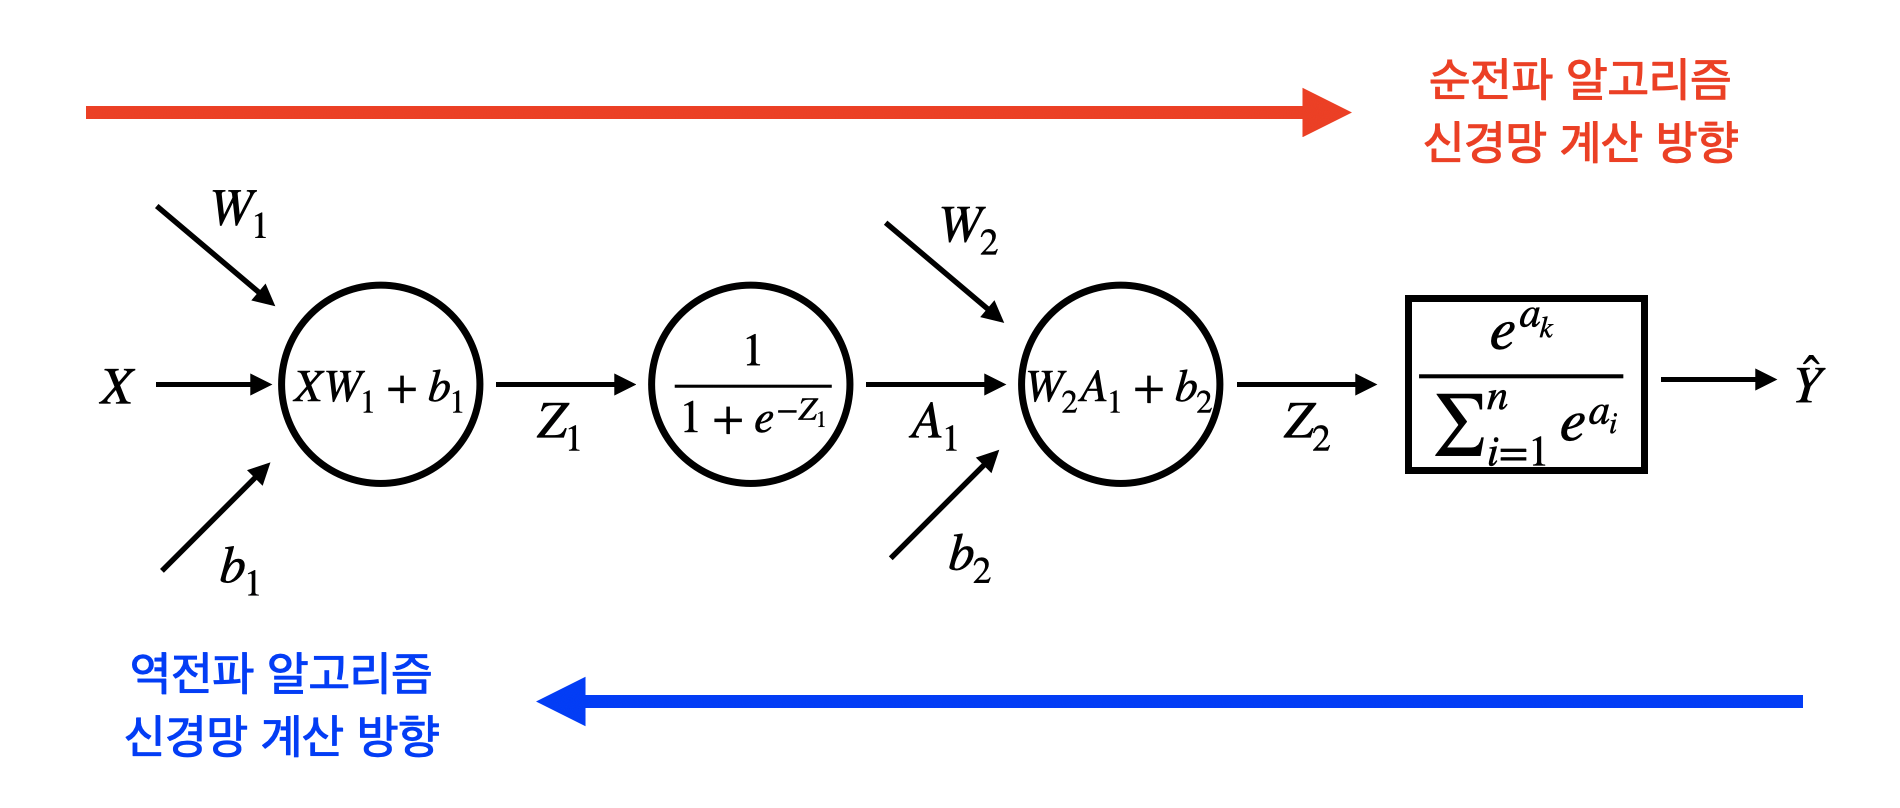
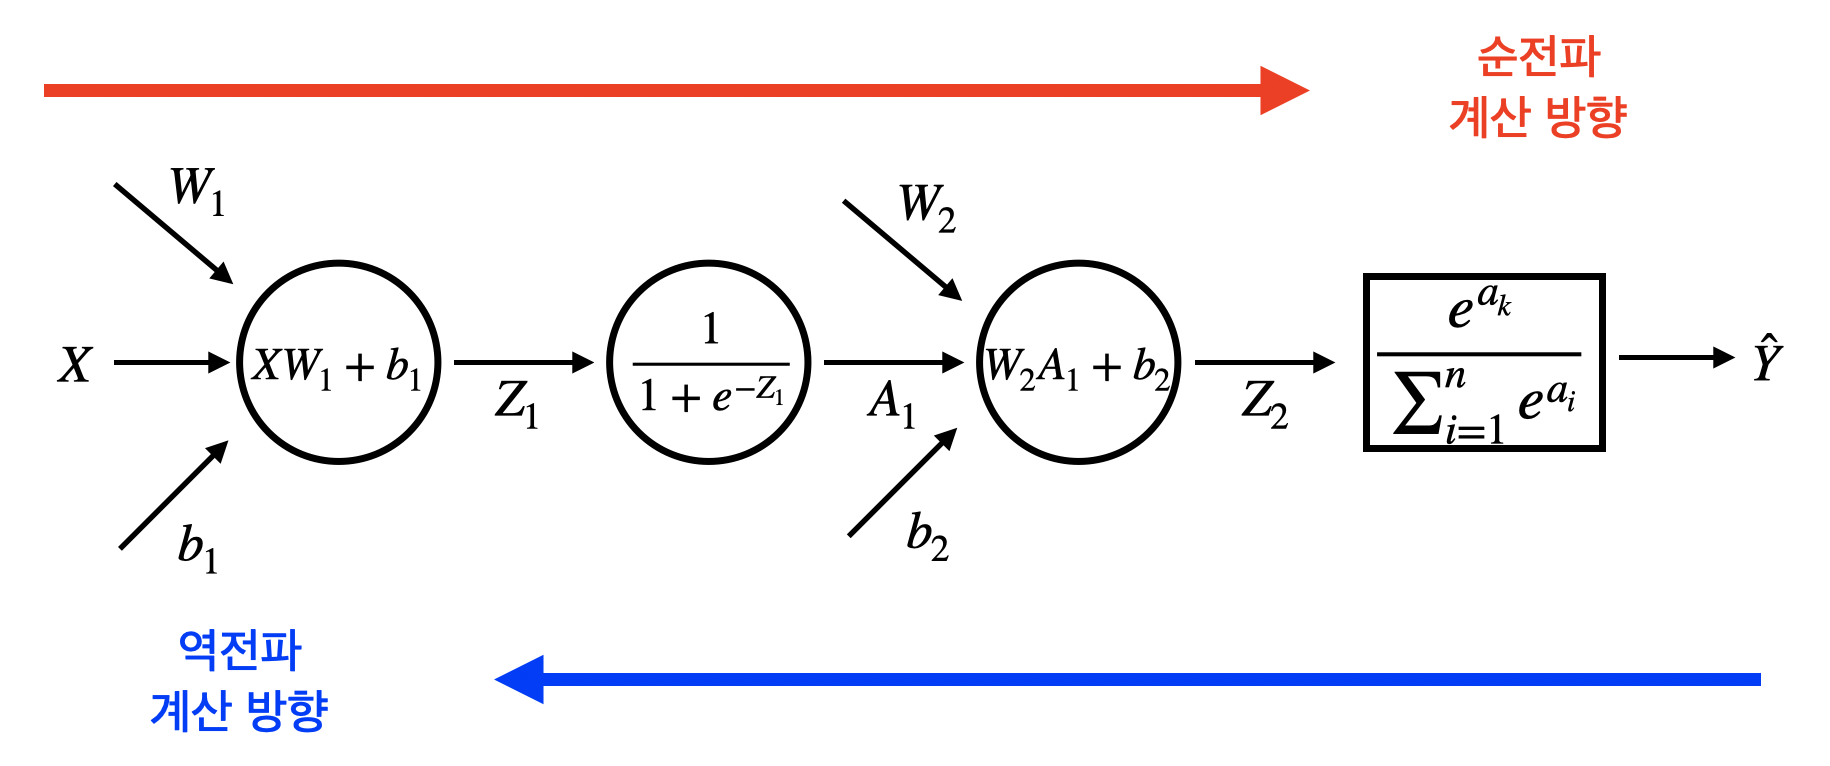
Site updated: 2020-04-29 04:42:37

diff --git a/2020/04/04/Deeplearning-8/index.html b/2020/04/04/Deeplearning-8/index.html
@@ -57,7 +57,7 @@
 <meta property="og:image" content="https://hyeonji-ryu.github.io/images/44.png">
 <meta property="og:image" content="https://hyeonji-ryu.github.io/images/51.png">
 <meta property="article:published_time" content="2020-04-04T13:56:01.000Z">
-<meta property="article:modified_time" content="2020-04-28T19:10:40.669Z">
+<meta property="article:modified_time" content="2020-04-28T19:41:48.097Z">
 <meta property="article:author" content="Hyeonji Ryu">
 <meta property="article:tag" content="딥러닝">
 <meta property="article:tag" content="머신러닝">
@@ -247,7 +247,7 @@
                   <i class="fa fa-calendar-check-o"></i>
                 </span>
                 <span class="post-meta-item-text">Edited on</span>
-                <time title="Updated at: 2020-04-29 04:10:40" itemprop="dateModified" datetime="2020-04-29T04:10:40+09:00">2020-04-29</time>
+                <time title="Updated at: 2020-04-29 04:41:48" itemprop="dateModified" datetime="2020-04-29T04:41:48+09:00">2020-04-29</time>
               </span>
             <span class="post-meta-item">
               <span class="post-meta-item-icon">
@@ -274,11 +274,11 @@
       
         <p>해당 시리즈는 프로그래밍 언어 중 하나인 줄리아(Julia)로 딥러닝(Deep learning)을 구현하면서 원리를 설명합니다.<br><a id="more"></a></p>
 <hr>
-<p>이전 글에서는 왼쪽 방향에서 오른쪽 방향으로 이동하는 학습 모델인 순전파를 살펴보았다. 순전파 알고리즘은 학습을 진행할 때마다 각각 매개변수의 미분값을 구해야 하기 때문에 신경망 계산이 매개변수 개수의 두 배가 진행된다. 이전 글에서의 신경망 모델을 예시로 보면 가중치와 편향이 총 4개이기 때문에 순전파 알고리즘으로 학습을 한 번 할 때마다 신경망 계산은 총 8번 이루어진다. 이 방식은 매우 비효율적이고 시간이 오래걸린다. 순전파보다 더 효율적으로 학습하는 알고리즘이 바로 역전파이다. 이번 장에서는 역전파에 대해서 살펴볼 것이다.</p>
-<h2 id="역전파란"><a href="#역전파란" class="headerlink" title="역전파란"></a>역전파란</h2><p>역전파(backward propagation)는 순전파와 다르게 신경망 계산을 반대로 하는 것을 의미한다. 즉, 순전파는 왼쪽에서 오른쪽 방향으로 신경망 계산이 이루어진다면, 역전파는 오른쪽에서 왼쪽 방향으로 신경망 계산이 이루어진다. 도식에서 확인하자면 아래와 같다.</p>
+<p>이전 글에서는 왼쪽 방향에서 오른쪽 방향으로 이동하는 미분법인 순전파 알고리즘을 살펴보았다. 순전파 알고리즘은 학습을 진행할 때마다 각각 매개변수의 미분값을 구해야 하기 때문에 신경망 계산이 매개변수 개수의 두 배가 진행된다. 이전 글에서의 신경망 모델을 예시로 보면 가중치와 편향이 총 4개이기 때문에 순전파 기반으로 학습을 한 번 할 때마다 신경망 계산은 총 8번 이루어진다. 이 방식은 매우 비효율적이고 시간이 오래걸린다. 순전파보다 더 효율적으로 미분하는 방법이 바로 역전파 알고리즘이다. 이번 장에서는 역전파 알고리즘에 대해서 살펴볼 것이다.</p>
+<h2 id="역전파란"><a href="#역전파란" class="headerlink" title="역전파란"></a>역전파란</h2><p>역전파(backward propagation)는 순전파와 다르게 미분을 반대로 하는 것을 의미한다. 즉, 순전파는 왼쪽에서 오른쪽 방향으로 미분이 이루어진다면, 역전파는 오른쪽에서 왼쪽 방향으로 미분이 이루어진다. 도식에서 확인하자면 아래와 같다.</p>
 <p><img src="\../images/43.png" alt="신경망 계산 방향"></p>
 <p>또한 순전파와 역전파는 신경망 계산이 이루어지는 과정도 약간 다르다. 우리가 만든 2층 신경망 모델의 순전파 알고리즘은 각각 가중치와 편향의 편미분 값을 구하기 위해서 신경망 계산이 8번 이루어지지만, 역전파 알고리즘은 한번 진행될 때 가중치와 편향의 편미분 값을 바로 구할 수 있다. 이것이 역전파가 순전파보다 훨씬 빠르게 진행되는 이유이다. 신경망 계산은 행렬 계산으로 이루어지기 때문에 매우 복잡하고 계산량이 많다. 따라서 계산을 여러 번 할수록 훨씬 많은 시간이 소요된다. 따라서 시간의 관점에서 역전파는 순전파보다 훨씬 더 효율적인 알고리즘이라고 볼 수 있다. 순전파와 역전파의 차이를 정리하면 다음과 같다.</p>
-<p><img src="\../images/44.png" alt="학습 알고리즘 비교"></p>
+<p><img src="\../images/44.png" alt="미분 알고리즘 비교"></p>
 <h2 id="역전파의-원리-합성함수의-미분"><a href="#역전파의-원리-합성함수의-미분" class="headerlink" title="역전파의 원리: 합성함수의 미분"></a>역전파의 원리: 합성함수의 미분</h2><p>역전파가 한번에 편미분을 구할 수 있는 원리는 합성함수의 미분을 이용한 것이다. 먼저 우리가 만들었던 2층 신경망 모델의 수식을 확인해보자.</p>
 <script type="math/tex; mode=display">\hat{y}=\sigma(h(XW1+B1)\times W2+B2)</script><p>위의 수식을 다음과 같이 정리할 수 있다.</p>
 <script type="math/tex; mode=display">Z1=XW1+B1\\
@@ -354,7 +354,7 @@ x & \text{(x>0) $$}\\
 0 & \text{(x≤0)$$}\\
 1 & \text{(x>0) $$}\\
 \end{cases}</script><p>따라서 역전파 알고리즘에서 Relu 함수는 입력값 $x$가 0보다 같거나 작으면 미분값에 0을 곱해서 출력하고, $x$보다 크면 1을 곱해서 출력한다. 그렇기 때문에 입력값에서 음수의 위치를 저장해두어야 한다.</p>
-<h2 id="순전파-vs-역전파"><a href="#순전파-vs-역전파" class="headerlink" title="순전파 vs. 역전파"></a>순전파 vs. 역전파</h2><p>다음 글에서 살펴볼 역전파 알고리즘이 과연 잘 구현된건지 확인해보자. 먼저 훈련데이터 이미지 3개를 <code>x_batch</code>와  <code>t_batch</code>에 할당한다. (참고로 사용된 훈련데이터는 MNIST 데이터이며, <a href="https://hyeonji-ryu.github.io/2020/04/04/Deeplearning-7/">이전 글</a>에서 가져오는 방법을 볼 수 있다.)</p>
+<h2 id="순전파-vs-역전파"><a href="#순전파-vs-역전파" class="headerlink" title="순전파 vs. 역전파"></a>순전파 vs. 역전파</h2><p>다음 글에서 살펴볼 역전파 알고리즘이 과연 잘 구현되었는지 확인해보자. 먼저 훈련데이터 이미지 3개를 <code>x_batch</code>와  <code>t_batch</code>에 할당한다. (참고로 사용된 훈련데이터는 MNIST 데이터이며, <a href="https://hyeonji-ryu.github.io/2020/04/04/Deeplearning-7/">이전 글</a>에서 가져오는 방법을 볼 수 있다.)</p>
 <figure class="highlight julia"><table><tr><td class="gutter"><pre><span class="line">1</span><br><span class="line">2</span><br></pre></td><td class="code"><pre><span class="line">x_batch = train_x[<span class="number">1</span>:<span class="number">3</span>, :]</span><br><span class="line">t_batch = t[<span class="number">1</span>:<span class="number">3</span>, :]</span><br></pre></td></tr></table></figure>
 <p>그 다음 순전파 알고리즘을 먼저 작동해보자.</p>
 <figure class="highlight julia"><table><tr><td class="gutter"><pre><span class="line">1</span><br></pre></td><td class="code"><pre><span class="line">grad_forward = TwoLayerNet_numerical_gradient(loss, x_batch, t_batch)</span><br></pre></td></tr></table></figure>

diff --git a/2020/04/02/Deeplearning-6/index.html b/2020/04/02/Deeplearning-6/index.html
@@ -55,7 +55,7 @@
 <meta property="og:locale" content="ko_KR">
 <meta property="og:image" content="https://hyeonji-ryu.github.io/images/31.png">
 <meta property="article:published_time" content="2020-04-02T00:53:05.000Z">
-<meta property="article:modified_time" content="2020-04-28T19:10:40.669Z">
+<meta property="article:modified_time" content="2020-04-28T19:37:49.414Z">
 <meta property="article:author" content="Hyeonji Ryu">
 <meta property="article:tag" content="딥러닝">
 <meta property="article:tag" content="머신러닝">
@@ -249,7 +249,7 @@
                   <i class="fa fa-calendar-check-o"></i>
                 </span>
                 <span class="post-meta-item-text">Edited on</span>
-                <time title="Updated at: 2020-04-29 04:10:40" itemprop="dateModified" datetime="2020-04-29T04:10:40+09:00">2020-04-29</time>
+                <time title="Updated at: 2020-04-29 04:37:49" itemprop="dateModified" datetime="2020-04-29T04:37:49+09:00">2020-04-29</time>
               </span>
             <span class="post-meta-item">
               <span class="post-meta-item-icon">
@@ -291,7 +291,7 @@
 </ul>
 <h2 id="인공신경망-학습-과정"><a href="#인공신경망-학습-과정" class="headerlink" title="인공신경망 학습 과정"></a>인공신경망 학습 과정</h2><p>인공신경망은 네트워크 그래프의 형식을 취한다. 네트워크 그래프란 요소인 노드(node)와 노드들의 관계를 나타내는 엣지(edge)로 구성하여 만든 그래프이다. 여기서 노드는 변화하는 주체를 의미하며, 엣지는 그 변화의 정도를 나타낸다. 인공신경망을 네트워크 그래프 관점에서 설명한다면 입력데이터와 은닉층의 중간값, 출력값은 모두 노드이며 데이터에 변화를 야기하는 가중치와 편향은 엣지이다. 네트워크 그래프로 도식화한 신경망은 아래와 같다.</p>
 <p><img src="/images/31.png" alt="신경망 구조"></p>
-<p>결국 우리가 학습을 통해 찾아야 하는 것은 엣지(edge)인 가중치와 편향의 값인 것을 확인할 수 있다. 현재 우리가 살펴본 학습 알고리즘은 경사하강법밖에 없기에 학습 과정에 대한 설명은 경사하강법을 기반으로 한다.</p>
+<p>결국 우리가 학습을 통해 찾아야 하는 것은 엣지(edge)인 가중치와 편향의 값인 것을 확인할 수 있다. 지금부터 진행되는 학습 과정에 대한 설명은 경사하강법을 기반으로 한다.</p>
 <p>학습 과정을 세분화하여 설명하기 위해 위의 인공신경망 도식을 바탕으로 설명하고자 한다. 먼저 위의 인공신경망은 2층 구조이며, 입력값은 $[x_1, x_2, x_3, x_4]$로 총 4개이다. 또한 은닉층 $[h_1, h_2]$을 거쳐 예측값 $[y_1, y_2, y_3]$을 출력한다.</p>
 <p>(1) 인공신경망 매개 변수 셋팅</p>
 <p>위의 도식만 설정되면 가중치와 편향의 크기는 자동으로 결정된다. 먼저 입력층에서 은닉층으로 가는 1층 구간의 W1은 $1 \times 4$행렬인 입력값과 곱해서 $1 \times 2$행렬이 결과로 나와야 하기에 $4 \times 2$의 행렬이며, 편향은 $1 \times 2$ 행렬이다. 은닉층과 출력층 사이의 2층 구간 W2 또한 이와 같은 원리로 자동 설정된다.</p>
@@ -300,7 +300,7 @@
 <p>(3) 손실 함수 값 계산</p>
 <p>위의 신겸망 계산을 가중치와 편향을 갱신하면서 반복하여 손실 함수 값을 줄인다. 손실 함수는 예측값 $\hat{y}$와 정답 $t$의 오차를 계산한다. 보통 평균 제곱 오차와 교차 엔트로피 오차를 이용한다.</p>
 <p>(4) 매개 변수의 편미분 구하기</p>
-<p>그렇다면 손실 함수의 값을 어떻게 줄이는가? 이때 사용되는 것이 편미분이다. 편미분은 분자의 $f(x)$를 분모의 변수를 기준으로 미분한 것이며, 함수 $f(x)$에서 변수가 순간적으로 얼마나 변하는가를 나타낸다. 즉, 기울기를 나타내는 것이다. 편미분 값을 통해서 가중치와 편향이 어느 방향으로 변해야 하는지를 파악할 수 있다.</p>
+<p>그렇다면 손실 함수의 값을 어떻게 줄이는가? 이때 사용되는 것이 편미분이다. 편미분은 분자의 $f(x)$를 분모의 변수를 기준으로 미분한 것이며, 함수 $f(x)$에서 변수가 순간적으로 얼마나 변하는가를 나타낸다. 즉, 기울기를 나타내는 것이다. 편미분 값을 통해서 가중치와 편향이 어느 방향으로 변해야 하는지를 파악할 수 있다. 이 파트에서 순전파나 역전파 알고리즘을 사용한다.</p>
 <p>(5) 편미분 값에 학습률 곱하여 매개 변수 갱신</p>
 <p>편미분 값을 저장한 후 학습률을 곱해준다. 학습률은 기존 가중치에 얼만큼 영향을 줄 것인가를 나타낸다. 학습률은 보통 0.1이나 0.01을 사용한다. 학습률이 너무 크면 학습폭이 커서 최솟값을 못찾을 수도 있다. 즉, 신경망이 도착지까지 가는데 너무 큰 걸음으로 걷는 것이다. 멀리 있을 때는 좋을 수 있지만 가까워지면 도착지에 딱 맞게 가는 것은 어려워진다. 학습률을 곱한 편미분 값을 기존 가중치와 편향에서 뺀 후, 그 결과를 다시 가중치와 편향으로 갱신한다.</p>
 <p>(6) 손실 함수 값 계산</p>
@@ -309,7 +309,7 @@
 <p>위의 과정을 반복하면 손실 함수 값은 0에 가까워지고 인공신경망의 예측 정확도가 올라간다. 보통 사용하는 학습 알고리즘마다 적절한 횟수는 다르지만 ‘에폭(epoch)’을 기준으로 삼는다. 에폭은 학습데이터의 갯수를 나타낸다. 만약 사용하는 학습 입력데이터가 500개라면 해당 신경망의 1에폭은 500번이다. 만약 한번 학습을 시킬 때 10개 단위의 배치데이터를 사용한다면 1에폭의 수는 50번이 된다.</p>
 <p>(8) 학습된 모델의 정확도 확인하기</p>
 <p>정확도는 학습된 모델이 실제 데이터를 얼만큼 맞추는가로 평가된다. 학습된 인공신경망은 97%~98%의 정확도까지도 보인다.</p>
-<h2 id="결론"><a href="#결론" class="headerlink" title="결론"></a>결론</h2><p>지금까지 인공신경망이 어떻게 학습되는지 그 과정을 살펴보았다. 신경망 학습은 인공신경망 구현에 있어 매우 중요한 부분이다. 신경망이 어떤 방식으로 학습되는지에 따라서 성능이 제각각이기 떄문이다. 학습에 있어 다양한 기술적인 튜닝이 있지만 핵심 원리는 이 글을 벗어나지 않는다. 다음 글에서 순전파로 진행되는 경사하강법을 구현해보고, 이후 역전파에 대해서 살펴볼 것이다.</p>
+<h2 id="결론"><a href="#결론" class="headerlink" title="결론"></a>결론</h2><p>지금까지 인공신경망이 어떻게 학습되는지 그 과정을 살펴보았다. 신경망 학습은 인공신경망 구현에 있어 매우 중요한 부분이다. 신경망이 어떤 방식으로 학습되는지에 따라서 성능이 제각각이기 떄문이다. 학습에 있어 다양한 기술적인 튜닝이 있지만 핵심 원리는 이 글을 벗어나지 않는다. 다음 글에서 순전파 알고리즘 기반의 경사하강법을 구현해보고, 이후 역전파에 대해서 살펴볼 것이다.</p>
 
     </div>
 

diff --git a/2020/04/04/Deeplearning-7/index.html b/2020/04/04/Deeplearning-7/index.html
@@ -58,7 +58,7 @@
 <meta property="og:image" content="https://hyeonji-ryu.github.io/images/46.png">
 <meta property="og:image" content="https://hyeonji-ryu.github.io/images/45.png">
 <meta property="article:published_time" content="2020-04-03T17:22:48.000Z">
-<meta property="article:modified_time" content="2020-04-28T19:25:24.818Z">
+<meta property="article:modified_time" content="2020-04-28T19:36:43.580Z">
 <meta property="article:author" content="Hyeonji Ryu">
 <meta property="article:tag" content="딥러닝">
 <meta property="article:tag" content="머신러닝">
@@ -248,7 +248,7 @@
                   <i class="fa fa-calendar-check-o"></i>
                 </span>
                 <span class="post-meta-item-text">Edited on</span>
-                <time title="Updated at: 2020-04-29 04:25:24" itemprop="dateModified" datetime="2020-04-29T04:25:24+09:00">2020-04-29</time>
+                <time title="Updated at: 2020-04-29 04:36:43" itemprop="dateModified" datetime="2020-04-29T04:36:43+09:00">2020-04-29</time>
               </span>
             <span class="post-meta-item">
               <span class="post-meta-item-icon">
@@ -276,8 +276,8 @@
         <p>해당 시리즈는 프로그래밍 언어 중 하나인 줄리아(Julia)로 딥러닝(Deep learning)을 구현하면서 원리를 설명합니다.<br><a id="more"></a></p>
 <hr>
 <p>이전 글에서 인공신경망을 학습한다는 것이 어떤 의미인지 살펴보았다. 이번에는 인공신경망을 직접 설계하고 학습하여 손글씨 숫자를 분류하는 인공신경망을 만들 것이다. 인공신경망을 설계하는 것은 앞전에 살펴봤던 도식을 만드는 것이다. 은닉층 개수를 정하여 인공신경망의 깊이를 설정하고, 사용되는 활성화 함수들을 정한다. <strong>그 후 인공신경망을 ‘어떻게’ 학습시킬 것인가를 정해야 한다.</strong> 오늘 같이 구현할 ‘순전파’는 경사하강법에서 기울기를 구하는 방법 중 하나이다.</p>
-<h2 id="순전파란"><a href="#순전파란" class="headerlink" title="순전파란"></a>순전파란</h2><p>순전파는 기울기를 구하는 과정이 입력값에서 예측값으로 진행되는 것을 의미한다. 즉, 순서대로 이행되는 정직한 미분법이다. 우리가 앞서 <a href="https://hyeonji-ryu.github.io/2020/03/31/Deeplearning-4/">경사하강법</a> 파트에서 살펴봤던 미분 방법을 사용한다.</p>
-<p>순전파의 편미분 원리는 다음과 같다.</p>
+<h2 id="순전파란"><a href="#순전파란" class="headerlink" title="순전파란"></a>순전파란</h2><p>순전파는 기울기를 구하는 과정이 입력값에서 예측값으로 진행되는 것을 의미한다. 즉, 순서대로 이행되는 정직한 미분 알고리즘이다. 우리가 앞서 <a href="https://hyeonji-ryu.github.io/2020/03/31/Deeplearning-4/">경사하강법</a> 파트에서 살펴봤던 미분 방법을 사용한다.</p>
+<p>순전파 알고리즘의 편미분 원리는 다음과 같다.</p>
 <ol>
 <li>편미분 대상(가중치와 편향)에 아주 작은 수(1e-50)를 더해준다.</li>
 <li>손실 함수 값인 $f1$을 구한다.</li>
@@ -286,7 +286,7 @@
 <li>$f1 - f2$를 한다. -&gt; 편미분값 완성</li>
 <li>위의 식 결과를 미분값 객체에 저장한다.</li>
 </ol>
-<p>하지만 순전파를 기반으로 한  경사하강법 알고리즘은 너무 느리다. 그 이유는 매개 변수인 가중치와 편향을 업데이트한 후 다시 처음부터 신경망을 계산하여 손실함수 값을 갱신하기 때문이다. 다음 글에서는 이를 좀 더 빨리 진행할 수 있는 역전파를 살펴볼 것이다.</p>
+<p>하지만 순전파 알고리즘은 너무 느리다. 그 이유는 매개 변수인 가중치와 편향을 업데이트한 후 다시 처음부터 신경망을 계산하여 손실함수 값을 갱신하기 때문이다. 다음 글에서는 이를 좀 더 빨리 진행할 수 있는 역전파 알고리즘을 살펴볼 것이다.</p>
 <p>아래의 수식은 이전 글에서 우리가 만들었던 인공신경망의 프로세스를 나타낸 것이다.</p>
 <script type="math/tex; mode=display">\hat{y}=\sigma(h(XW1+B1)\times W2+B2)</script><p>순전파는 위의 수식에서 합성 함수들 가장 안쪽에 위치한 입력값부터 계산이 진행된다. 즉, 안쪽에서 바깥쪽으로 계산된다고도 볼 수 있다. 도식에서는 왼쪽에서 오른쪽으로 이동하며, 수식에서는 안쪽에서 바깥쪽으로 이동한다.</p>
 <h2 id="‘MNIST’-Project"><a href="#‘MNIST’-Project" class="headerlink" title="‘MNIST’ Project"></a>‘MNIST’ Project</h2><p>‘MNIST’는 손글씨로 쓴 숫자를 예측하는 인공신경망을 만드는 프로젝트이다. 해당 프로젝트에 대해 더 알고싶다면 <a href="https://juliaml.github.io/MLDatasets.jl/latest/datasets/MNIST/#MLDatasets.MNIST.testtensor" target="_blank" rel="noopener">이 링크</a>를 참고하면 된다. MNIST는 대부분의 교재에서 사용하는 예시 중 하나이며, 해당 데이터셋이 패키지 안에 준비되어 있다. 먼저 아래의 코드를 입력해서 데이터를 가져오자.</p>

diff --git a/index.html b/index.html
@@ -567,7 +567,7 @@
                   <i class="fa fa-calendar-check-o"></i>
                 </span>
                 <span class="post-meta-item-text">Edited on</span>
-                <time title="Updated at: 2020-04-29 04:10:40" itemprop="dateModified" datetime="2020-04-29T04:10:40+09:00">2020-04-29</time>
+                <time title="Updated at: 2020-04-29 04:41:48" itemprop="dateModified" datetime="2020-04-29T04:41:48+09:00">2020-04-29</time>
               </span>
             <span class="post-meta-item">
               <span class="post-meta-item-icon">
@@ -650,7 +650,7 @@
                   <i class="fa fa-calendar-check-o"></i>
                 </span>
                 <span class="post-meta-item-text">Edited on</span>
-                <time title="Updated at: 2020-04-29 04:25:24" itemprop="dateModified" datetime="2020-04-29T04:25:24+09:00">2020-04-29</time>
+                <time title="Updated at: 2020-04-29 04:36:43" itemprop="dateModified" datetime="2020-04-29T04:36:43+09:00">2020-04-29</time>
               </span>
             <span class="post-meta-item">
               <span class="post-meta-item-icon">
@@ -733,7 +733,7 @@
                   <i class="fa fa-calendar-check-o"></i>
                 </span>
                 <span class="post-meta-item-text">Edited on</span>
-                <time title="Updated at: 2020-04-29 04:10:40" itemprop="dateModified" datetime="2020-04-29T04:10:40+09:00">2020-04-29</time>
+                <time title="Updated at: 2020-04-29 04:37:49" itemprop="dateModified" datetime="2020-04-29T04:37:49+09:00">2020-04-29</time>
               </span>
             <span class="post-meta-item">
               <span class="post-meta-item-icon">
